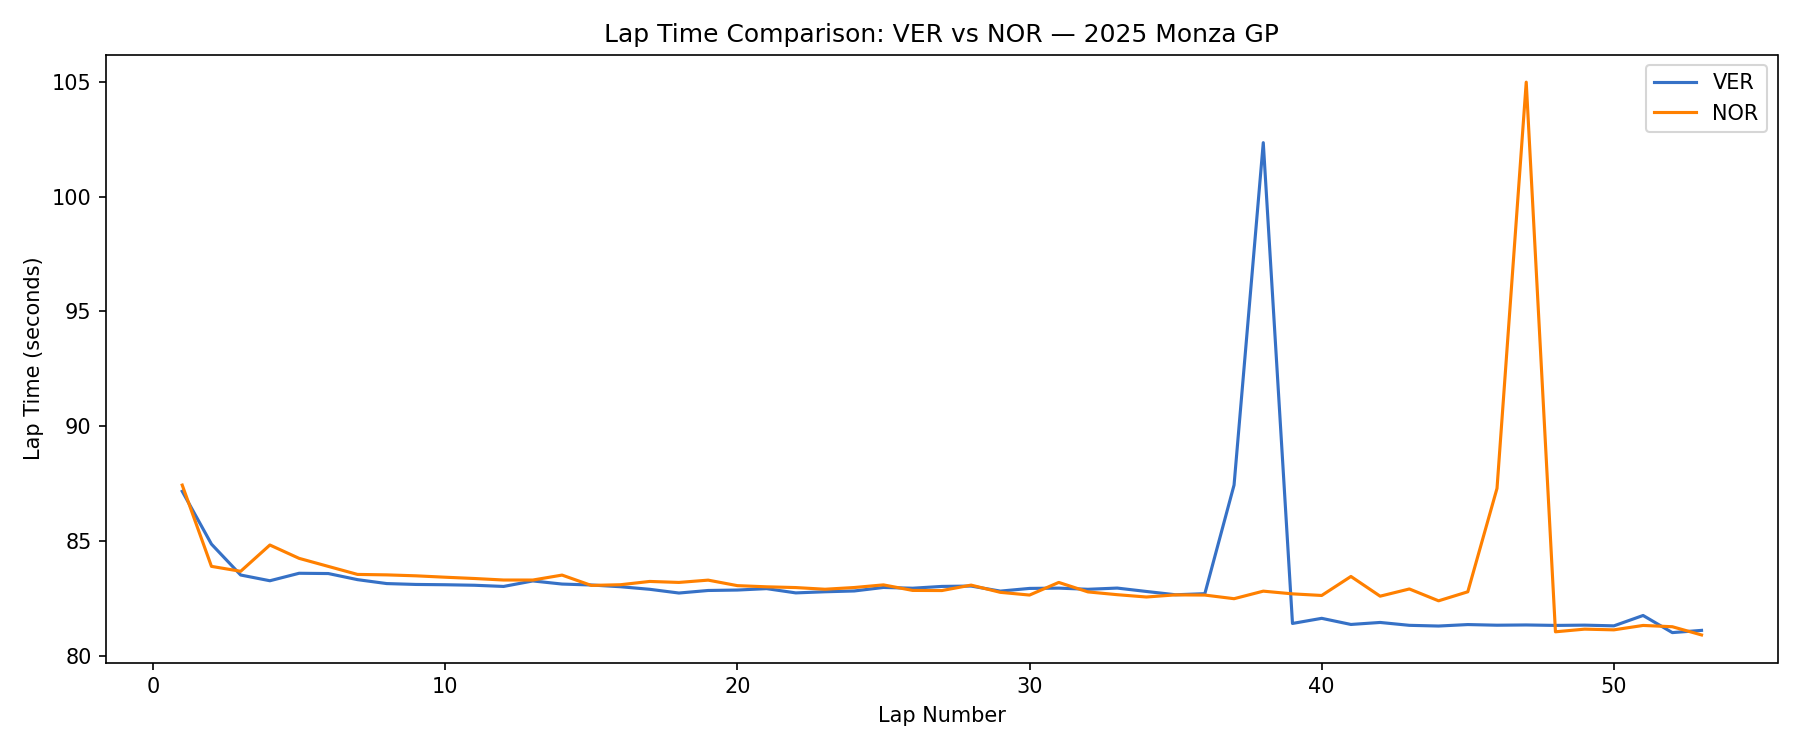
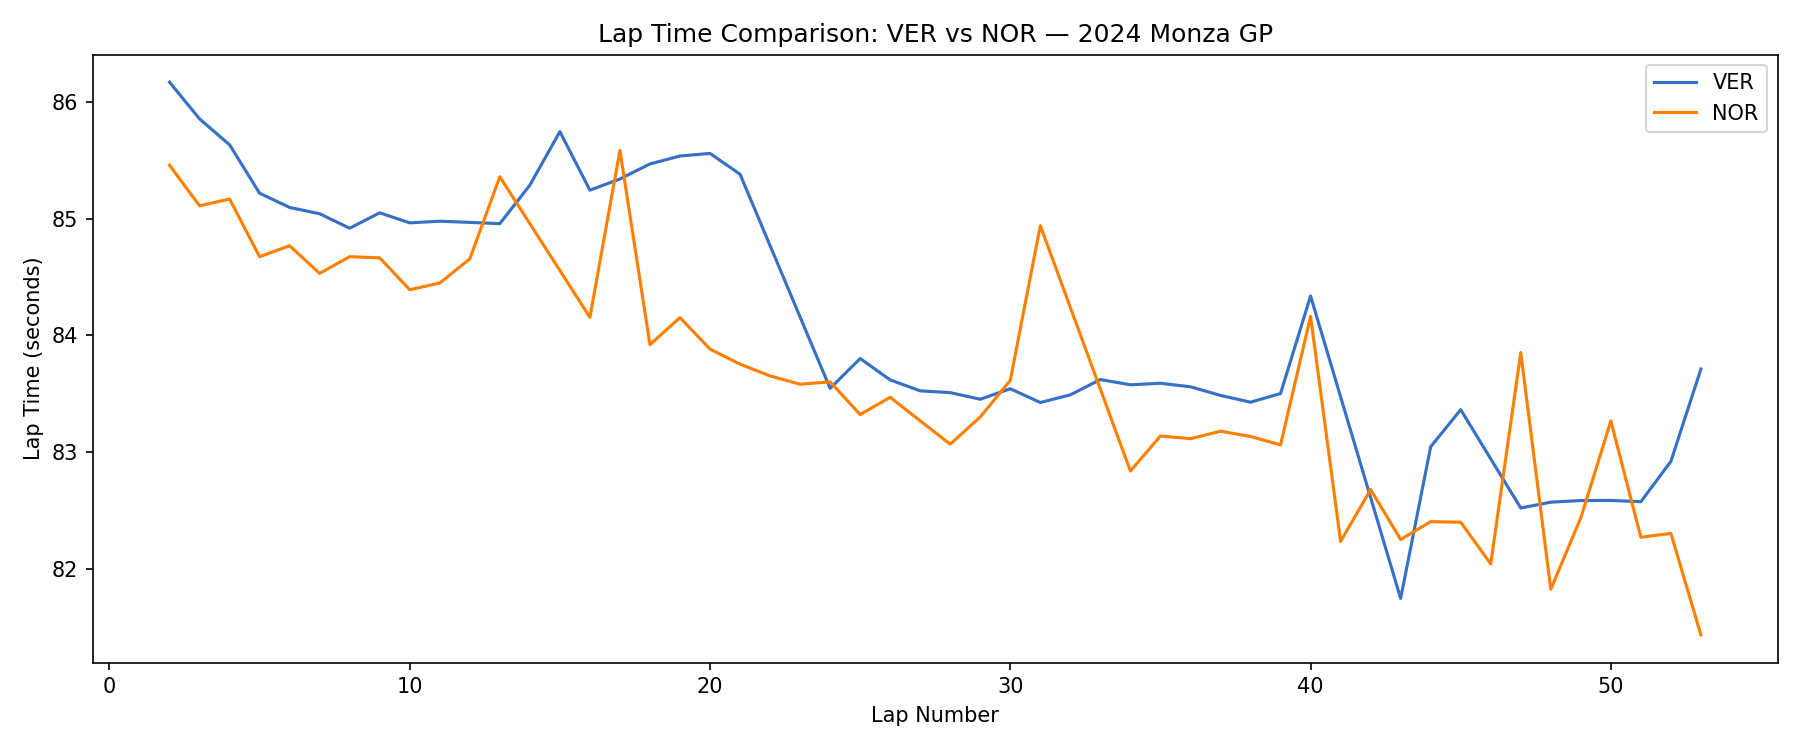
Made minor error handling changes using sys

diff --git a/lap_comparison.py b/lap_comparison.py
@@ -1,5 +1,5 @@
-import fastf1
-import fastf1.plotting
+import fastf1, fastf1.plotting
+import sys
 import matplotlib.pyplot as plt
 from team_colours import get_colour,driver_colours_2024,driver_colours_2025
 
@@ -13,28 +13,32 @@ track = input("Enter race/track (e.g. Monza): ").title()
 
 season = int(input("Enter year 2024/2025): "))
 if season not in (2024,2025):
-    print(f"Invalid season {season}")
+    print(f"Invalid season selected: {season}")
+    sys.exit()
 
 driver1 = input("Enter driver 1 code (e.g. VER): ").upper()[:3] #Take first 3 characters and force upper case to validate
 driver2 = input("Enter driver 2 code (e.g. NOR): ").upper()[:3]
 
 valid_drivers = set(driver_colours_2024.keys()) | set(driver_colours_2025.keys())
 if driver1 not in valid_drivers:
-    print(f"Invalid choice: {driver1}")
-elif driver2 not in valid_drivers:
-    print(f"Invalid choice: {driver2}")
+    sys.exit(f"Invalid driver choice: {driver1}")
+    
+if driver2 not in valid_drivers:
+    sys.exit(f"Invalid driver choice: {driver2}")
+    
 
 # Load a session - catch error if not a valid race or unexpected error occured
 try:
     session = fastf1.get_session(season, track, 'R')
     session.load()
 except Exception as e:
-    print(f"Couldn't load sesssion: {e}")
+    sys.exit(f"Couldn't load sesssion: {e}")
+    
 
 
-# Get their laps, dropping any outliers (e.g. safety car laps)
-laps_d1 = session.laps.pick_driver(driver1).reset_index()
-laps_d2 = session.laps.pick_driver(driver2).reset_index()
+# Get their laps, dropping any outliers (e.g. safety car laps) with pick_quicklaps()
+laps_d1 = session.laps.pick_driver(driver1).pick_quicklaps().reset_index()
+laps_d2 = session.laps.pick_driver(driver2).pick_quicklaps().reset_index()
 
 # Convert lap times to seconds for easier plotting
 laps_d1['LapTimeSeconds'] = laps_d1['LapTime'].dt.total_seconds()

diff --git a/qualifying_telemetry.py b/qualifying_telemetry.py
@@ -1,5 +1,5 @@
-import fastf1
-import fastf1.plotting
+import fastf1, fastf1.plotting
+import sys
 import matplotlib.pyplot as plt
 from team_colours import get_colour, driver_colours_2024, driver_colours_2025
 
@@ -10,27 +10,33 @@ track = input("Enter race/track (e.g. Monza): ").title()
 
 season = int(input("Enter year 2024/2025): "))
 if season not in (2024,2025):
-    print(f"Invalid season {season}")
+    sys.exit(f"Invalid season {season}")
 
 driver1 = input("Enter driver 1 code (e.g. VER): ").upper()[:3] #Take first 3 characters and force upper case to validate
 driver2 = input("Enter driver 2 code (e.g. NOR): ").upper()[:3]
 
 valid_drivers = set(driver_colours_2024.keys()) | set(driver_colours_2025.keys())
 if driver1 not in valid_drivers:
-    print(f"Invalid choice: {driver1}")
-elif driver2 not in valid_drivers:
-    print(f"Invalid choice: {driver2}")
+    sys.exit(f"Invalid choice: {driver1}")
+if driver2 not in valid_drivers:
+    sys.exit(f"Invalid choice: {driver2}")
 
 # Load a session - catch error if not a valid race or unexpected error occured
 try:
     session = fastf1.get_session(season, track, 'Q') #Q for quali
     session.load()
 except Exception as e:
-    print(f"Couldn't load sesssion: {e}")
+    sys.exit(f"Couldn't load sesssion: {e}")
 
-# Get the fastest lap for each driver
+# Get the fastest lap for each driver and validate them
 fastest_d1 = session.laps.pick_driver(driver1).pick_fastest()
 fastest_d2 = session.laps.pick_driver(driver2).pick_fastest()
+
+if fastest_d1 is None:
+    sys.exit(f"No fast lap set in this session {driver1}")
+if fastest_d2 is None:
+    sys.exit(f"No fast lap set in this session {driver2}")
+
 
 # Get telemetry and add distance so plot by position on the track
 telemetry_d1 = fastest_d1.get_car_data().add_distance()

diff --git a/team_colours.py b/team_colours.py
@@ -28,7 +28,7 @@ driver_colours_2025={
     'ANT': '#27F4D2',  # Mercedes
     'RUS': '#27F4D2',
     'LEC': '#E8002D',  # Ferrari
-    'HAMI': '#E8002D',
+    'HAM': '#E8002D',
     'NOR': '#FF8000',  # McLaren
     'PIA': '#FF8000',
     'ALO': '#358C75',  # Aston Martin
@@ -36,7 +36,7 @@ driver_colours_2025={
     'GAS': '#0093CC',  # Alpine
     'COL': '#0093CC',
     'LAW': '#00E0D0',  # Racing Bulls
-    'HAJ': '#5E8FAA',
+    'HAD': '#5E8FAA',
     'BOR': '#C92D4B',  # Kick Sauber
     'HUL': '#C92D4B',
     'BEA': '#B6BABD',  # Haas
